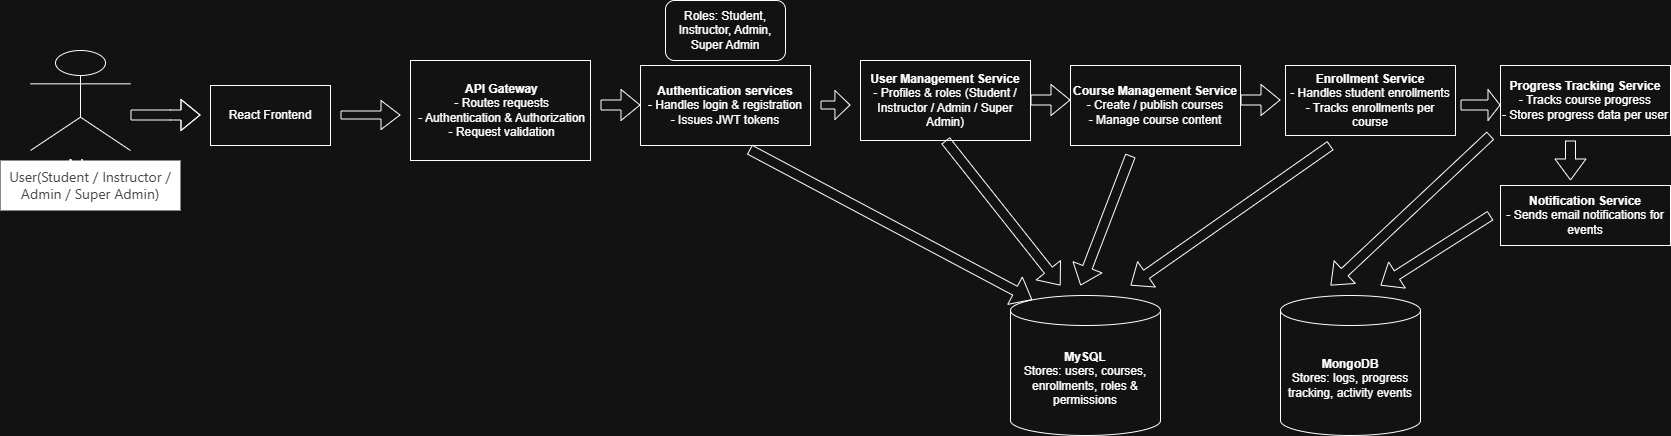
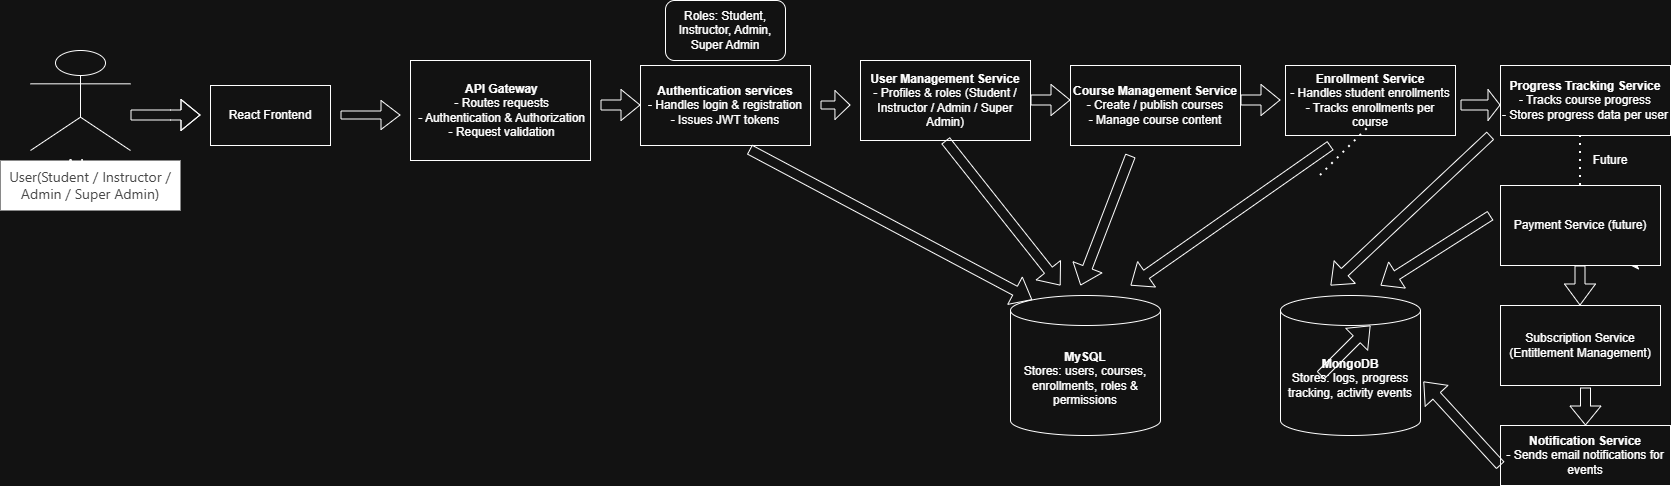
Updated subscription plan with course enrollment

diff --git a/docs/api/gateway.md b/docs/api/gateway.md
@@ -1,0 +1,93 @@
+# API Gateway
+
+This document defines all public-facing APIs exposed by the SmartLearn API Gateway. All client applications (Web & Mobile) communicate exclusively with the API Gateway. Internal microservice are not exposed directly.
+
+## Common Request standard
+
+### Base URL 
+- /api
+
+### Header 
+- Authorization: Bearer <JWT_TOKEN>
+
+### Content-type 
+- Content-Type: application/json
+
+## Aithentication APIs
+
+### POST /api/auth/login
+Authenticate users and returns JWT tokens
+
+### POST /api/auth/register
+Registers a new user
+
+### POST /api/auth/refresh
+Refreshes access token
+
+## User APIs
+
+### GET api/user/me
+Returns logged in users profile
+
+### PUT api/user/me
+Updates logged in users profile
+
+Authentication: Required
+
+## Course APIs
+
+### GET api/courses
+Return list of all published courses
+
+### GET api/courses/{courseId}
+Returns course details
+
+### POST api/courses
+creats a new course
+Role: Instructor/admin
+
+### PUT api/courses/{courseId}
+Updates course details
+Role: Instructor/Admin
+
+## Enrollment APIs
+
+### POST api/enrollments
+Enrolls a user into course
+
+### GET api/enrollments/my
+Retuens list of courses enrollment by user
+Authentication: Required
+
+## Progress APIs
+
+### GET api/progress/{courseId}
+Returns user progress for a course
+
+### POST api/progress/{courseId}
+Updates user progress
+
+Authentication: Required
+
+## Error Handling
+All APIs returns a standard error response format.
+Example:
+```json
+{
+    "errorcode" : "AUTH_401",
+    "message" : "Unautherized access"
+}
+```
+
+Error Codes: 
+400 – Business validation error
+401 – Unauthorized
+403 – Forbidden
+409 – Conflict
+500 – Internal server error
+
+## Design Notes
+
+- API Gateway handles authentication and routing only
+- Business logic resides inside domain services
+- Internal service APIs are not exposed publicly 

diff --git a/docs/api/enrollment.md b/docs/api/enrollment.md
@@ -1,0 +1,74 @@
+# Enrollment API
+This API allows an authenticated users to enroll in a course.
+The enrollment service validates course availability, prevent duplicate enrollments, and triggres post-enrollment notifications asyncronously.
+
+## POST api/enrollments
+
+### Headers 
+Autherization: Bearer <JWT_TOKEN>
+Content-type: application/JSON
+Idempotency-key: <unique-key>
+
+### Request Body
+```json
+{
+  "courseId": "COURSE_123"
+}
+```
+
+### Success response - 201 Created
+```json
+{
+  "enrollmentId": "ENROLL_456",
+  "courseId": "COURSE_123",
+  "userId": "USER_789",
+  "status": "ENROLLED",
+  "enrolledAt": "2026-01-10T10:30:00Z"
+}
+```
+
+### 401 Unauthorized
+```json
+{
+  "errorCode": "AUTH_401",
+  "message": "Unauthorized access"
+}
+```
+
+### 409 Conflict
+```json
+{
+  "errorCode": "ENROLL_409",
+  "message": "User already enrolled in this course"
+}
+```
+
+### 400 Bad Request
+```json
+{
+    "errorcode": "ENROLL_400",
+    "message": "Course is full or Inactive"
+}
+```
+
+### 403 Forbidden
+```json
+{
+  "errorCode": "SUB_403",
+  "message": "Active subscription required"
+}
+```
+
+### Internal flow
+1. API Gateway validate JWT
+2. Enrollment Service checks user entitlement via Subscription Service
+3. Course service validates course status 
+4. Enrollment record is saved
+5. Enrollment event is published to Notification service
+
+## Design Notes
+- Enrollment service enforce Idempotency 
+- Course validation is delegated to Course Service
+- Notification processing is asyncronous
+- Standerized error responses are used across services
+

diff --git a/docs/SRS.md b/docs/SRS.md
@@ -65,9 +65,12 @@ The SmartLearn platform is composed of the following backend microservices:
 - Allows instructures to create and publish courses
 - Manages course content and metadata
 
-### 4. Enrollment service
+### 4. Enrollment & Access Control service
 - Handles course enrollment
 - Maintains enrollment records
+- Enrollment requires a valid subscription entitlement
+- The Enrollment Service verifies user access by consulting the Subscription Service
+- Payment processing is intentionally decoupled and will be introduced as a future enhancement
 
 ### 5. Progress tracking service
 - Tracks user progress within progress
@@ -153,3 +156,8 @@ Data sharing between services is handeled via APIs rather than direct Database a
 - Automated build, test, and deployment steps will be followed
 - Nginx will act as a reverse proxy for routing requests
 - Enviornment variables will be used for configuration management 
+
+## 11. Future Extensivility
+
+- Subscription-based access is implemented via a dedicated service to allow
+- future integration of payment gateways without impacting core platform services.

diff --git a/docs/api/README.md b/docs/api/README.md
@@ -1,0 +1,47 @@
+# Auth Services
+
+## Responsibilities
+- Login
+- Register
+- JWT issue and refresh
+
+## Owns
+- Authentication logic
+- Token lifecycle
+
+# User Management service
+
+## Resposibilities
+- User Profile
+- Roles and Permission
+
+## Owns
+- Users
+- Roles (Student, Instructor, Admin, Super Admin)
+
+# Course Management Service
+
+## Resposibilities
+- Enroll users
+- Prevent duplicate enrollments
+
+## Owns
+- Enrollments
+
+# Progress tracking service
+
+## Resposibilities
+- Track course progress
+
+## Owns
+- Progress data
+- Activity logs
+
+# Notification service
+
+## Responsibilities
+- Email/event notifications
+
+## Owns
+- Templates
+- Delivery Status
